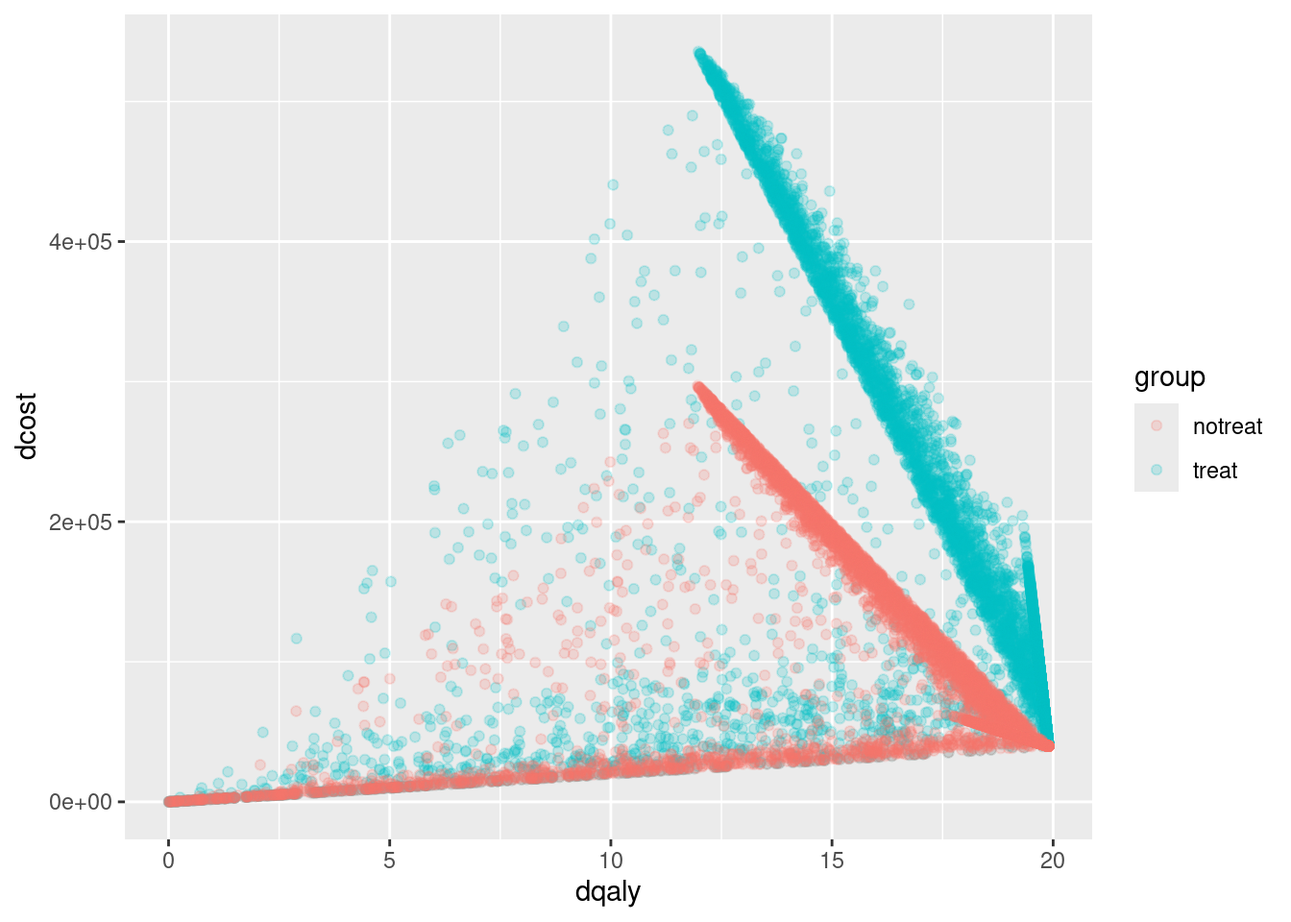
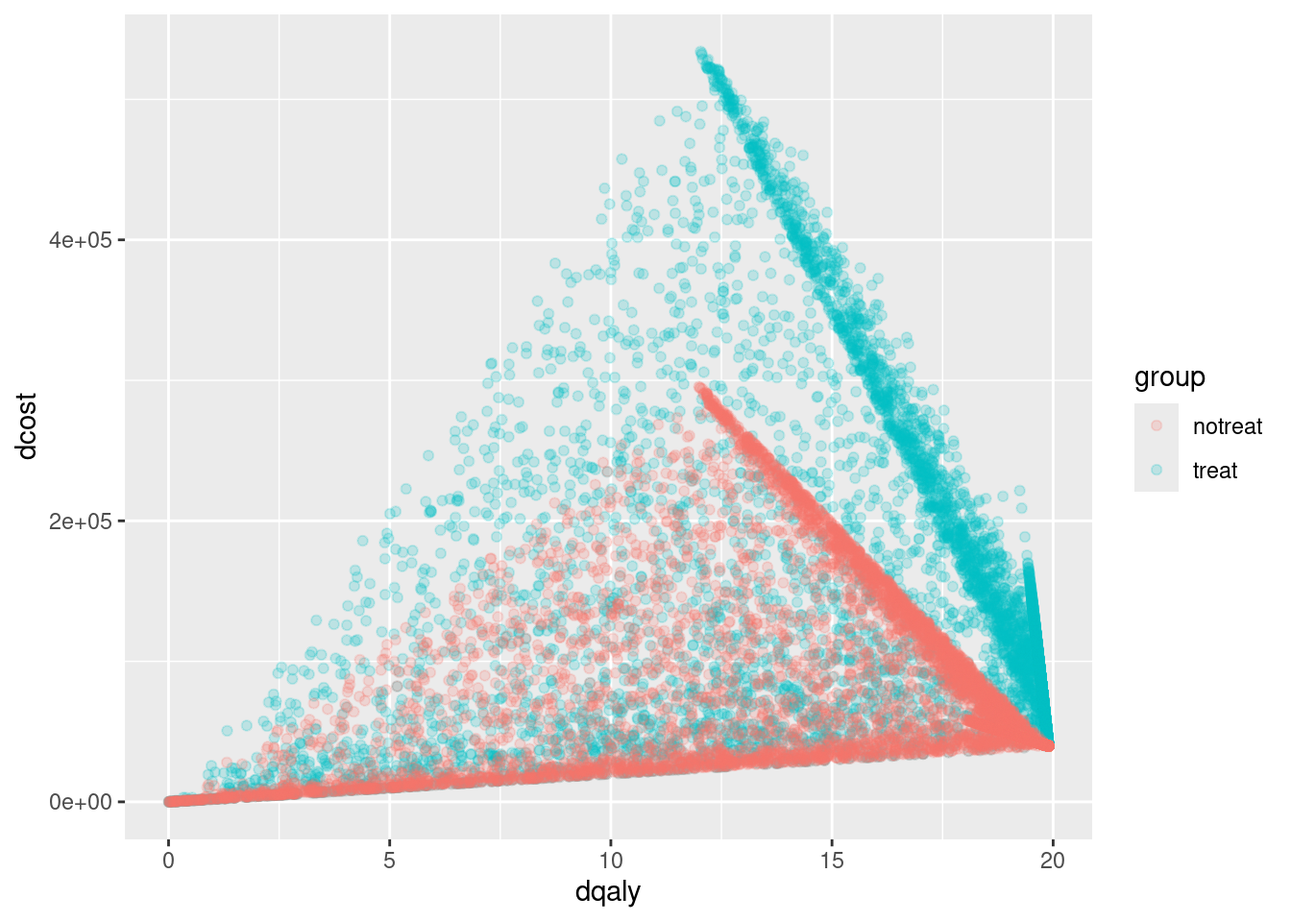
Fixed bug in death redraws

Changed region(s): [[0.125, 0.0312, 0.8125, 0.875], [0.0312, 0.5625, 0.0938, 0.5938], [0.0312, 0.25, 0.0938, 0.2812]]

diff --git a/Sick_Sicker_Simmer_DES.html b/Sick_Sicker_Simmer_DES.html
@@ -565,66 +565,68 @@ qaly_arrivals &lt;- function(arrivals, inputs)
 }</code></pre>
 <p>Now a run is in order.</p>
 <div class="cell">
-<div class="sourceCode cell-code" id="cb36"><pre class="sourceCode r code-with-copy"><code class="sourceCode r"><span id="cb36-1"><a href="#cb36-1" aria-hidden="true" tabindex="-1"></a><span class="fu">set.seed</span>(<span class="dv">2</span>)</span>
+<div class="sourceCode cell-code" id="cb36"><pre class="sourceCode r code-with-copy"><code class="sourceCode r"><span id="cb36-1"><a href="#cb36-1" aria-hidden="true" tabindex="-1"></a><span class="fu">set.seed</span>(<span class="dv">3</span>)</span>
 <span id="cb36-2"><a href="#cb36-2" aria-hidden="true" tabindex="-1"></a><span class="fu">source</span>(<span class="st">'model-4.R'</span>)</span>
 <span id="cb36-3"><a href="#cb36-3" aria-hidden="true" tabindex="-1"></a>results <span class="ot">&lt;-</span> <span class="fu">des_run</span>(inputs)</span>
 <span id="cb36-4"><a href="#cb36-4" aria-hidden="true" tabindex="-1"></a>results</span></code><button title="Copy to Clipboard" class="code-copy-button"><i class="bi"></i></button></pre></div>
 <div class="cell-output cell-output-stdout">
-<pre><code>       name start_time   end_time activity_time      resource replication
-1  patient2  0.0000000  0.7023209     0.7023209       healthy           1
-2  patient0  0.0000000  0.9776845     0.9776845       healthy           1
-3  patient1  0.0000000  4.4459842     4.4459842       healthy           1
-4  patient4  0.0000000  4.9674597     4.9674597       healthy           1
-5  patient3  0.0000000 12.2190344    12.2190344       healthy           1
-6  patient1 17.9052361 17.9052361     0.0000000         death           1
-7  patient1  0.0000000 17.9052361    17.9052361 time_in_model           1
-8  patient1  4.4459842 17.9052361    13.4592519         sick1           1
-9  patient2 19.9934967 19.9934967     0.0000000         death           1
-10 patient2  0.0000000 19.9934967    19.9934967 time_in_model           1
-11 patient2  0.7023209 19.9934967    19.2911758         sick1           1
-12 patient0  0.0000000 30.0000000    30.0000000 time_in_model           1
-13 patient4  0.0000000 30.0000000    30.0000000 time_in_model           1
-14 patient3  0.0000000 30.0000000    30.0000000 time_in_model           1
-15 patient0  0.9776845 30.0000000    29.0223155         sick1           1
-16 patient4  4.9674597 30.0000000    25.0325403         sick1           1
-17 patient3 12.2190344 30.0000000    17.7809656         sick1           1
-         cost     dcost       qaly      dqaly
-1    1404.642  1390.162  0.7023209  0.6950811
-2    1955.369  1927.385  0.9776845  0.9636924
-3    8891.968  8332.462  4.4459842  4.1662310
-4    9934.919  9239.963  4.9674597  4.6199813
-5   24438.069 20511.417 12.2190344 10.2557086
-6       0.000     0.000  0.0000000  0.0000000
-7       0.000     0.000  0.0000000  0.0000000
-8   53837.008 38947.307 10.7674015  7.7894613
-9       0.000     0.000  0.0000000  0.0000000
-10      0.000     0.000  0.0000000  0.0000000
-11  77164.703 57603.422 15.4329406 11.5206844
-12      0.000     0.000  0.0000000  0.0000000
-13      0.000     0.000  0.0000000  0.0000000
-14      0.000     0.000  0.0000000  0.0000000
-15 116089.262 75717.229 23.2178524 15.1434457
-16 100130.161 61092.073 20.0260322 12.2184146
-17  71123.862 38549.164 14.2247724  7.7098328</code></pre>
+<pre><code>       name  start_time    end_time activity_time      resource replication
+1  patient3  0.00000000  0.06698552    0.06698552       healthy           1
+2  patient4  0.00000000  0.51500444    0.51500444       healthy           1
+3  patient2  0.00000000  1.03479892    1.03479892       healthy           1
+4  patient1  0.00000000  1.39192072    1.39192072       healthy           1
+5  patient0  0.00000000  8.21944391    8.21944391       healthy           1
+6  patient4 11.06017048 11.06017048    0.00000000         death           1
+7  patient4  0.00000000 11.06017048   11.06017048 time_in_model           1
+8  patient4  0.51500444 11.06017048   10.54516604         sick1           1
+9  patient0 21.51698600 21.51698600    0.00000000         death           1
+10 patient0  0.00000000 21.51698600   21.51698600 time_in_model           1
+11 patient0  8.21944391 21.51698600   13.29754209         sick1           1
+12 patient3 27.22543337 27.22543337    0.00000000         death           1
+13 patient3  0.00000000 27.22543337   27.22543337 time_in_model           1
+14 patient3  0.06698552 27.22543337   27.15844785         sick1           1
+15 patient2  0.00000000 30.00000000   30.00000000 time_in_model           1
+16 patient1  0.00000000 30.00000000   30.00000000 time_in_model           1
+17 patient2  1.03479892 30.00000000   28.96520108         sick1           1
+18 patient1  1.39192072 30.00000000   28.60807928         sick1           1
+         cost      dcost        qaly       dqaly
+1     133.971   133.8385  0.06698552  0.06691925
+2    1030.009  1022.2086  0.51500444  0.51110432
+3    2069.598  2038.2663  1.03479892  1.01913314
+4    2783.841  2727.3503  1.39192072  1.36367517
+5   16438.888 14594.2785  8.21944391  7.29713927
+6       0.000     0.0000  0.00000000  0.00000000
+7       0.000     0.0000  0.00000000  0.00000000
+8   42180.664 35692.2209  8.43613283  7.13844418
+9       0.000     0.0000  0.00000000  0.00000000
+10      0.000     0.0000  0.00000000  0.00000000
+11  53190.168 34495.0557 10.63803367  6.89901115
+12      0.000     0.0000  0.00000000  0.00000000
+13      0.000     0.0000  0.00000000  0.00000000
+14 108633.791 74539.2546 21.72675828 14.90785093
+15      0.000     0.0000  0.00000000  0.00000000
+16      0.000     0.0000  0.00000000  0.00000000
+17 115860.804 75495.4658 23.17216086 15.09909315
+18 114432.317 74117.2976 22.88646342 14.82345953</code></pre>
 </div>
 </div>
 <p>The results are lot more complicated and harder to interpret. To bring some order to what’s happening what we can do is now randomly audit patients.</p>
 <div class="cell">
-<div class="sourceCode cell-code" id="cb38"><pre class="sourceCode r code-with-copy"><code class="sourceCode r"><span id="cb38-1"><a href="#cb38-1" aria-hidden="true" tabindex="-1"></a><span class="fu">set.seed</span>(<span class="dv">4</span>)</span>
+<div class="sourceCode cell-code" id="cb38"><pre class="sourceCode r code-with-copy"><code class="sourceCode r"><span id="cb38-1"><a href="#cb38-1" aria-hidden="true" tabindex="-1"></a><span class="fu">set.seed</span>(<span class="dv">6</span>)</span>
 <span id="cb38-2"><a href="#cb38-2" aria-hidden="true" tabindex="-1"></a>pn <span class="ot">&lt;-</span> <span class="fu">sample</span>(<span class="dv">1</span><span class="sc">:</span>inputs<span class="sc">$</span>N, <span class="dv">1</span>) <span class="sc">-</span> <span class="dv">1</span> <span class="co"># Starts a zero</span></span>
 <span id="cb38-3"><a href="#cb38-3" aria-hidden="true" tabindex="-1"></a>audit <span class="ot">&lt;-</span> results[results<span class="sc">$</span>name <span class="sc">==</span> <span class="fu">paste0</span>(<span class="st">'patient'</span>,pn),]</span>
 <span id="cb38-4"><a href="#cb38-4" aria-hidden="true" tabindex="-1"></a>audit[<span class="fu">order</span>(audit<span class="sc">$</span>start_time, audit<span class="sc">$</span>end_time),] <span class="co"># For clarity</span></span></code><button title="Copy to Clipboard" class="code-copy-button"><i class="bi"></i></button></pre></div>
 <div class="cell-output cell-output-stdout">
-<pre><code>       name start_time   end_time activity_time      resource replication
-1  patient2  0.0000000  0.7023209     0.7023209       healthy           1
-10 patient2  0.0000000 19.9934967    19.9934967 time_in_model           1
-11 patient2  0.7023209 19.9934967    19.2911758         sick1           1
-9  patient2 19.9934967 19.9934967     0.0000000         death           1
-        cost     dcost       qaly      dqaly
-1   1404.642  1390.162  0.7023209  0.6950811
-10     0.000     0.000  0.0000000  0.0000000
-11 77164.703 57603.422 15.4329406 11.5206844
-9      0.000     0.000  0.0000000  0.0000000</code></pre>
+<pre><code>      name start_time   end_time activity_time      resource replication
+2 patient4  0.0000000  0.5150044     0.5150044       healthy           1
+7 patient4  0.0000000 11.0601705    11.0601705 time_in_model           1
+8 patient4  0.5150044 11.0601705    10.5451660         sick1           1
+6 patient4 11.0601705 11.0601705     0.0000000         death           1
+       cost     dcost      qaly     dqaly
+2  1030.009  1022.209 0.5150044 0.5111043
+7     0.000     0.000 0.0000000 0.0000000
+8 42180.664 35692.221 8.4361328 7.1384442
+6     0.000     0.000 0.0000000 0.0000000</code></pre>
 </div>
 </div>
 <p>The random audit (the set.seed is just so we can reproduce the result and discuss here, remove it to be truly random), shows that Patient trajectory 2 in this simulation is health for 3/4 of the year. His time in the model is cut short to just under 20 years. He spends most of that time in the S1 state until his death.</p>
@@ -633,16 +635,16 @@ qaly_arrivals &lt;- function(arrivals, inputs)
 <div class="sourceCode cell-code" id="cb40"><pre class="sourceCode r code-with-copy"><code class="sourceCode r"><span id="cb40-1"><a href="#cb40-1" aria-hidden="true" tabindex="-1"></a>pn <span class="ot">&lt;-</span> <span class="fu">sample</span>(results[results<span class="sc">$</span>resource<span class="sc">==</span><span class="st">'death'</span>,<span class="st">'name'</span>],<span class="dv">1</span>)</span>
 <span id="cb40-2"><a href="#cb40-2" aria-hidden="true" tabindex="-1"></a>results[results<span class="sc">$</span>name <span class="sc">==</span> pn, ]</span></code><button title="Copy to Clipboard" class="code-copy-button"><i class="bi"></i></button></pre></div>
 <div class="cell-output cell-output-stdout">
-<pre><code>      name start_time  end_time activity_time      resource replication
-3 patient1   0.000000  4.445984      4.445984       healthy           1
-6 patient1  17.905236 17.905236      0.000000         death           1
-7 patient1   0.000000 17.905236     17.905236 time_in_model           1
-8 patient1   4.445984 17.905236     13.459252         sick1           1
-       cost     dcost      qaly    dqaly
-3  8891.968  8332.462  4.445984 4.166231
-6     0.000     0.000  0.000000 0.000000
-7     0.000     0.000  0.000000 0.000000
-8 53837.008 38947.307 10.767402 7.789461</code></pre>
+<pre><code>       name start_time  end_time activity_time      resource replication
+5  patient0   0.000000  8.219444      8.219444       healthy           1
+9  patient0  21.516986 21.516986      0.000000         death           1
+10 patient0   0.000000 21.516986     21.516986 time_in_model           1
+11 patient0   8.219444 21.516986     13.297542         sick1           1
+       cost    dcost      qaly    dqaly
+5  16438.89 14594.28  8.219444 7.297139
+9      0.00     0.00  0.000000 0.000000
+10     0.00     0.00  0.000000 0.000000
+11 53190.17 34495.06 10.638034 6.899011</code></pre>
 </div>
 </div>
 <p>Thus tools to grab and look at trajectories containing specific events randomly auditing and verifying the expected costs and qualitys can be done.</p>
@@ -686,23 +688,27 @@ healthy &lt;- function(traj, inputs)
 <span id="cb44-5"><a href="#cb44-5" aria-hidden="true" tabindex="-1"></a>audit[<span class="fu">order</span>(audit<span class="sc">$</span>start_time, audit<span class="sc">$</span>end_time),]</span></code><button title="Copy to Clipboard" class="code-copy-button"><i class="bi"></i></button></pre></div>
 <div class="cell-output cell-output-stdout">
 <pre><code>       name start_time  end_time activity_time      resource replication
-7  patient1   0.000000  4.899055     4.8990551       healthy           1
-34 patient1   0.000000 30.000000    30.0000000 time_in_model           1
-8  patient1   4.899055  5.247788     0.3487328         sick1           1
-20 patient1   5.247788 13.559917     8.3121288       healthy           1
-23 patient1  13.559917 15.528413     1.9684958         sick1           1
-26 patient1  15.528413 18.120708     2.5922960       healthy           1
-27 patient1  18.120708 18.488023     0.3673147         sick1           1
-38 patient1  18.488023 30.000000    11.5119768       healthy           1
-        cost      dcost       qaly     dqaly
-7   9798.110  9121.7168  4.8990551 4.5608584
-34     0.000     0.0000  0.0000000 0.0000000
-8   1394.931  1200.6767  0.2789863 0.2401353
-20 16624.258 12621.6089  8.3121288 6.3108045
-23  7873.983  5123.2911  1.5747966 1.0246582
-26  5184.592  3153.8437  2.5922960 1.5769218
-27  1469.259   855.3092  0.2938517 0.1710618
-38 23023.954 11299.1913 11.5119768 5.6495957</code></pre>
+9  patient1   0.000000  4.899055    4.89905511       healthy           1
+48 patient1   0.000000 30.000000   30.00000000 time_in_model           1
+13 patient1   4.899055  7.470293    2.57123764         sick1           1
+17 patient1   7.470293 11.542523    4.07223050       healthy           1
+18 patient1  11.542523 11.600571    0.05804809         sick1           1
+21 patient1  11.600571 12.498444    0.89787306       healthy           1
+24 patient1  12.498444 13.256838    0.75839345         sick1           1
+33 patient1  13.256838 20.532096    7.27525846       healthy           1
+36 patient1  20.532096 21.534997    1.00290072         sick1           1
+53 patient1  21.534997 30.000000    8.46500296       healthy           1
+         cost     dcost       qaly      dqaly
+9   9798.1102 9121.7168 4.89905511 4.56085838
+48     0.0000    0.0000 0.00000000 0.00000000
+13 10284.9506 8568.6555 2.05699011 1.71373110
+17  8144.4610 6153.0240 4.07223050 3.07651200
+18   232.1924  164.9307 0.04643847 0.03298614
+21  1795.7461 1257.6953 0.89787306 0.62884766
+24  3033.5738 2073.2443 0.60671476 0.41464887
+33 14550.5169 8847.8321 7.27525846 4.42391604
+36  4011.6029 2154.3758 0.80232057 0.43087517
+53 16930.0059 7925.1278 8.46500296 3.96256391</code></pre>
 </div>
 </div>
 <p>Now the patient bounces back and forth between healthy and sick. The costs and qalys stay the same. The model is nearly complete.</p>
@@ -780,24 +786,36 @@ sick2 &lt;- function(traj, inputs)
 <p>Let’s see if we can audit a trajectory with sick2.</p>
 <div class="cell">
 <div class="sourceCode cell-code" id="cb52"><pre class="sourceCode r code-with-copy"><code class="sourceCode r"><span id="cb52-1"><a href="#cb52-1" aria-hidden="true" tabindex="-1"></a><span class="fu">source</span>(<span class="st">'model-6.R'</span>)</span>
-<span id="cb52-2"><a href="#cb52-2" aria-hidden="true" tabindex="-1"></a><span class="fu">set.seed</span>(<span class="dv">3</span>)</span>
+<span id="cb52-2"><a href="#cb52-2" aria-hidden="true" tabindex="-1"></a><span class="fu">set.seed</span>(<span class="dv">2</span>)</span>
 <span id="cb52-3"><a href="#cb52-3" aria-hidden="true" tabindex="-1"></a>results <span class="ot">&lt;-</span> <span class="fu">des_run</span>(inputs)</span>
 <span id="cb52-4"><a href="#cb52-4" aria-hidden="true" tabindex="-1"></a>pn <span class="ot">&lt;-</span> results<span class="sc">$</span>name[results<span class="sc">$</span>resource <span class="sc">==</span> <span class="st">'sick2'</span>][<span class="dv">1</span>]</span>
 <span id="cb52-5"><a href="#cb52-5" aria-hidden="true" tabindex="-1"></a>audit <span class="ot">&lt;-</span> results[results<span class="sc">$</span>name <span class="sc">==</span> pn,]</span>
 <span id="cb52-6"><a href="#cb52-6" aria-hidden="true" tabindex="-1"></a>audit[<span class="fu">order</span>(audit<span class="sc">$</span>start_time, audit<span class="sc">$</span>end_time),]</span></code><button title="Copy to Clipboard" class="code-copy-button"><i class="bi"></i></button></pre></div>
 <div class="cell-output cell-output-stdout">
-<pre><code>       name start_time   end_time activity_time      resource replication
-2  patient4  0.0000000  0.5150044     0.5150044       healthy           1
-26 patient4  0.0000000 22.8997743    22.8997743 time_in_model           1
-13 patient4  0.5150044  6.3379526     5.8229482         sick1           1
-27 patient4  6.3379526 22.8997743    16.5618216         sick2           1
-25 patient4 22.8997743 22.8997743     0.0000000         death           1
-         cost      dcost      qaly     dqaly
-2    1030.009   1022.209 0.5150044 0.5111043
-26      0.000      0.000 0.0000000 0.0000000
-13  23291.793  21074.263 4.6583586 4.2148526
-27 248427.325 162877.777 9.9370930 6.5151111
-25      0.000      0.000 0.0000000 0.0000000</code></pre>
+<pre><code>       name start_time  end_time activity_time      resource replication
+5  patient1   0.000000  4.445984     4.4459842       healthy           1
+28 patient1   0.000000 20.090316    20.0903164 time_in_model           1
+11 patient1   4.445984  5.635455     1.1894707         sick1           1
+14 patient1   5.635455 11.866599     6.2311438       healthy           1
+16 patient1  11.866599 12.265300     0.3987010         sick1           1
+19 patient1  12.265300 13.761215     1.4959153       healthy           1
+22 patient1  13.761215 15.572232     1.8110174         sick1           1
+23 patient1  15.572232 16.563925     0.9916925       healthy           1
+24 patient1  16.563925 17.330233     0.7663082         sick1           1
+29 patient1  17.330233 20.090316     2.7600832         sick2           1
+27 patient1  20.090316 20.090316     0.0000000         death           1
+        cost     dcost      qaly     dqaly
+5   8891.968  8332.462 4.4459842 4.1662310
+28     0.000     0.000 0.0000000 0.0000000
+11  4757.883  4099.466 0.9515765 0.8198931
+14 12462.288  9635.463 6.2311438 4.8177314
+16  1594.804  1116.391 0.3189608 0.2232783
+19  2991.831  2036.659 1.4959153 1.0183294
+22  7244.070  4696.285 1.4488140 0.9392570
+23  1983.385  1233.539 0.9916925 0.6167697
+24  3065.233  1857.459 0.6130465 0.3714918
+29 41401.249 23820.226 1.6560499 0.9528090
+27     0.000     0.000 0.0000000 0.0000000</code></pre>
 </div>
 </div>
 <p>This shows that base case of the Sick/Sicker model is now fully handled.</p>
@@ -892,49 +910,79 @@ healthy &lt;- function(traj, inputs)
 <p>And we can run.</p>
 <div class="cell">
 <div class="sourceCode cell-code" id="cb58"><pre class="sourceCode r code-with-copy"><code class="sourceCode r"><span id="cb58-1"><a href="#cb58-1" aria-hidden="true" tabindex="-1"></a><span class="fu">source</span>(<span class="st">'model-7.R'</span>)</span>
-<span id="cb58-2"><a href="#cb58-2" aria-hidden="true" tabindex="-1"></a><span class="fu">set.seed</span>(<span class="dv">3</span>)</span>
+<span id="cb58-2"><a href="#cb58-2" aria-hidden="true" tabindex="-1"></a><span class="fu">set.seed</span>(<span class="dv">2</span>)</span>
 <span id="cb58-3"><a href="#cb58-3" aria-hidden="true" tabindex="-1"></a>results <span class="ot">&lt;-</span> <span class="fu">des_run</span>(inputs)</span>
 <span id="cb58-4"><a href="#cb58-4" aria-hidden="true" tabindex="-1"></a>pn <span class="ot">&lt;-</span> results<span class="sc">$</span>name[results<span class="sc">$</span>resource <span class="sc">==</span> <span class="st">'sick2'</span>][<span class="dv">1</span>]</span>
 <span id="cb58-5"><a href="#cb58-5" aria-hidden="true" tabindex="-1"></a>audit <span class="ot">&lt;-</span> results[results<span class="sc">$</span>name <span class="sc">==</span> pn,]</span>
 <span id="cb58-6"><a href="#cb58-6" aria-hidden="true" tabindex="-1"></a>audit[<span class="fu">order</span>(audit<span class="sc">$</span>start_time, audit<span class="sc">$</span>end_time),]</span></code><button title="Copy to Clipboard" class="code-copy-button"><i class="bi"></i></button></pre></div>
 <div class="cell-output cell-output-stdout">
-<pre><code>       name start_time   end_time activity_time      resource replication
-2  patient4  0.0000000  0.5150044     0.5150044       healthy           1
-26 patient4  0.0000000 22.8997743    22.8997743 time_in_model           1
-13 patient4  0.5150044  6.3379526     5.8229482         sick1           1
-27 patient4  6.3379526 22.8997743    16.5618216         sick2           1
-25 patient4 22.8997743 22.8997743     0.0000000         death           1
-         cost      dcost      qaly     dqaly
-2    1030.009   1022.209 0.5150044 0.5111043
-26      0.000      0.000 0.0000000 0.0000000
-13  23291.793  21074.263 4.6583586 4.2148526
-27 248427.325 162877.777 9.9370930 6.5151111
-25      0.000      0.000 0.0000000 0.0000000</code></pre>
+<pre><code>       name start_time  end_time activity_time      resource replication
+5  patient1   0.000000  4.445984     4.4459842       healthy           1
+28 patient1   0.000000 20.090316    20.0903164 time_in_model           1
+11 patient1   4.445984  5.635455     1.1894707         sick1           1
+14 patient1   5.635455 11.866599     6.2311438       healthy           1
+16 patient1  11.866599 12.265300     0.3987010         sick1           1
+19 patient1  12.265300 13.761215     1.4959153       healthy           1
+22 patient1  13.761215 15.572232     1.8110174         sick1           1
+23 patient1  15.572232 16.563925     0.9916925       healthy           1
+24 patient1  16.563925 17.330233     0.7663082         sick1           1
+29 patient1  17.330233 20.090316     2.7600832         sick2           1
+27 patient1  20.090316 20.090316     0.0000000         death           1
+        cost     dcost      qaly     dqaly
+5   8891.968  8332.462 4.4459842 4.1662310
+28     0.000     0.000 0.0000000 0.0000000
+11  4757.883  4099.466 0.9515765 0.8198931
+14 12462.288  9635.463 6.2311438 4.8177314
+16  1594.804  1116.391 0.3189608 0.2232783
+19  2991.831  2036.659 1.4959153 1.0183294
+22  7244.070  4696.285 1.4488140 0.9392570
+23  1983.385  1233.539 0.9916925 0.6167697
+24  3065.233  1857.459 0.6130465 0.3714918
+29 41401.249 23820.226 1.6560499 0.9528090
+27     0.000     0.000 0.0000000 0.0000000</code></pre>
 </div>
 </div>
 <p>Now with treatment.</p>
 <div class="cell">
-<div class="sourceCode cell-code" id="cb60"><pre class="sourceCode r code-with-copy"><code class="sourceCode r"><span id="cb60-1"><a href="#cb60-1" aria-hidden="true" tabindex="-1"></a><span class="fu">set.seed</span>(<span class="dv">3</span>)</span>
+<div class="sourceCode cell-code" id="cb60"><pre class="sourceCode r code-with-copy"><code class="sourceCode r"><span id="cb60-1"><a href="#cb60-1" aria-hidden="true" tabindex="-1"></a><span class="fu">set.seed</span>(<span class="dv">2</span>)</span>
 <span id="cb60-2"><a href="#cb60-2" aria-hidden="true" tabindex="-1"></a>inputs<span class="sc">$</span>strategy <span class="ot">&lt;-</span> <span class="st">'treat'</span></span>
 <span id="cb60-3"><a href="#cb60-3" aria-hidden="true" tabindex="-1"></a>results <span class="ot">&lt;-</span> <span class="fu">des_run</span>(inputs)</span>
 <span id="cb60-4"><a href="#cb60-4" aria-hidden="true" tabindex="-1"></a>pn <span class="ot">&lt;-</span> results<span class="sc">$</span>name[results<span class="sc">$</span>resource <span class="sc">==</span> <span class="st">'sick2'</span>][<span class="dv">1</span>]</span>
 <span id="cb60-5"><a href="#cb60-5" aria-hidden="true" tabindex="-1"></a>audit <span class="ot">&lt;-</span> results[results<span class="sc">$</span>name <span class="sc">==</span> pn,]</span>
 <span id="cb60-6"><a href="#cb60-6" aria-hidden="true" tabindex="-1"></a>audit[<span class="fu">order</span>(audit<span class="sc">$</span>start_time, audit<span class="sc">$</span>end_time),]</span></code><button title="Copy to Clipboard" class="code-copy-button"><i class="bi"></i></button></pre></div>
 <div class="cell-output cell-output-stdout">
-<pre><code>       name start_time   end_time activity_time      resource replication
-2  patient4  0.0000000  0.5150044     0.5150044       healthy           1
-34 patient4  0.0000000 22.8997743    22.8997743 time_in_model           1
-17 patient4  0.5150044  6.3379526     5.8229482         sick1           1
-36 patient4  0.5150044 22.8997743    22.3847698         treat           1
-35 patient4  6.3379526 22.8997743    16.5618216         sick2           1
-33 patient4 22.8997743 22.8997743     0.0000000         death           1
-         cost      dcost      qaly     dqaly
-2    1030.009   1022.209 0.5150044 0.5111043
-34      0.000      0.000 0.0000000 0.0000000
-17  23291.793  21074.263 5.5318008 5.0051374
-36 268617.238 193525.011 0.0000000 0.0000000
-35 248427.325 162877.777 9.9370930 6.5151111
-33      0.000      0.000 0.0000000 0.0000000</code></pre>
+<pre><code>       name start_time  end_time activity_time      resource replication
+7  patient1   0.000000  4.445984     4.4459842       healthy           1
+38 patient1   0.000000 20.090316    20.0903164 time_in_model           1
+15 patient1   4.445984  5.635455     1.1894707         sick1           1
+16 patient1   4.445984  5.635455     1.1894707         treat           1
+19 patient1   5.635455 11.866599     6.2311438       healthy           1
+21 patient1  11.866599 12.265300     0.3987010         sick1           1
+22 patient1  11.866599 12.265300     0.3987010         treat           1
+26 patient1  12.265300 13.761215     1.4959153       healthy           1
+30 patient1  13.761215 15.572232     1.8110174         sick1           1
+31 patient1  13.761215 15.572232     1.8110174         treat           1
+32 patient1  15.572232 16.563925     0.9916925       healthy           1
+33 patient1  16.563925 17.330233     0.7663082         sick1           1
+40 patient1  16.563925 20.090316     3.5263914         treat           1
+39 patient1  17.330233 20.090316     2.7600832         sick2           1
+37 patient1  20.090316 20.090316     0.0000000         death           1
+        cost     dcost      qaly     dqaly
+7   8891.968  8332.462 4.4459842 4.1662310
+38     0.000     0.000 0.0000000 0.0000000
+15  4757.883  4099.466 1.1299971 0.9736231
+16 14273.648 12298.397 0.0000000 0.0000000
+19 12462.288  9635.463 6.2311438 4.8177314
+21  1594.804  1116.391 0.3787659 0.2651430
+22  4784.412  3349.174 0.0000000 0.0000000
+26  2991.831  2036.659 1.4959153 1.0183294
+30  7244.070  4696.285 1.7204666 1.1153677
+31 21732.209 14088.855 0.0000000 0.0000000
+32  1983.385  1233.539 0.9916925 0.6167697
+33  3065.233  1857.459 0.7279928 0.4411465
+40 42316.697 24628.558 0.0000000 0.0000000
+39 41401.249 23820.226 1.6560499 0.9528090
+37     0.000     0.000 0.0000000 0.0000000</code></pre>
 </div>
 </div>
 <p>Notice patient4 now has higher QALY under treatment, but also has treatment costs.</p>
@@ -996,8 +1044,8 @@ Attaching package: 'dplyr'</code></pre>
 <span id="cb67-21"><a href="#cb67-21" aria-hidden="true" tabindex="-1"></a>cea</span></code><button title="Copy to Clipboard" class="code-copy-button"><i class="bi"></i></button></pre></div>
 <div class="cell-output cell-output-stdout">
 <pre><code>            cost     dcost     qaly    dqaly
-notreat 129365.3  80099.57 25.15816 17.06324
-treat   232484.6 143450.91 25.67840 17.41693</code></pre>
+notreat 104647.9  67071.89 23.69394 16.26638
+treat   187331.4 119542.72 24.19165 16.60588</code></pre>
 </div>
 </div>
 <div class="cell">
@@ -1005,19 +1053,19 @@ treat   232484.6 143450.91 25.67840 17.41693</code></pre>
 <span id="cb69-2"><a href="#cb69-2" aria-hidden="true" tabindex="-1"></a><span class="fu">diff</span>(cea[,<span class="st">'dqaly'</span>]) <span class="sc">-</span> <span class="fu">diff</span>(cea[,<span class="st">'dcost'</span>])<span class="sc">/</span>inputs<span class="sc">$</span>wtp</span></code><button title="Copy to Clipboard" class="code-copy-button"><i class="bi"></i></button></pre></div>
 <div class="cell-output cell-output-stdout">
 <pre><code>     treat 
--0.2798167 </code></pre>
+-0.1852043 </code></pre>
 </div>
 <div class="sourceCode cell-code" id="cb71"><pre class="sourceCode r code-with-copy"><code class="sourceCode r"><span id="cb71-1"><a href="#cb71-1" aria-hidden="true" tabindex="-1"></a><span class="co"># NMB (discounted)</span></span>
 <span id="cb71-2"><a href="#cb71-2" aria-hidden="true" tabindex="-1"></a><span class="fu">diff</span>(cea[,<span class="st">'dqaly'</span>])<span class="sc">*</span>inputs<span class="sc">$</span>wtp <span class="sc">-</span> <span class="fu">diff</span>(cea[,<span class="st">'dcost'</span>])</span></code><button title="Copy to Clipboard" class="code-copy-button"><i class="bi"></i></button></pre></div>
 <div class="cell-output cell-output-stdout">
 <pre><code>    treat 
--27981.67 </code></pre>
+-18520.43 </code></pre>
 </div>
 <div class="sourceCode cell-code" id="cb73"><pre class="sourceCode r code-with-copy"><code class="sourceCode r"><span id="cb73-1"><a href="#cb73-1" aria-hidden="true" tabindex="-1"></a><span class="co"># ICER</span></span>
 <span id="cb73-2"><a href="#cb73-2" aria-hidden="true" tabindex="-1"></a><span class="fu">diff</span>(cea[,<span class="st">'dcost'</span>])<span class="sc">/</span> <span class="fu">diff</span>(cea[,<span class="st">'dqaly'</span>])</span></code><button title="Copy to Clipboard" class="code-copy-button"><i class="bi"></i></button></pre></div>
 <div class="cell-output cell-output-stdout">
 <pre><code>   treat 
-179112.1 </code></pre>
+154551.4 </code></pre>
 </div>
 </div>
 </section>
@@ -1038,7 +1086,7 @@ treat   232484.6 143450.91 25.67840 17.41693</code></pre>
 </div>
 </div>
 <p>This plot is odd due to the utilization of simple non realistic exponential rates.</p>
-<p>The capability of DES to include constrained resources was not included in this tutorial and would need a separate exploration. The fact that <code>simmer</code> has this capability means that it cannot treat patients as independent in evaluating events. This incurs a computational cost of <span class="math inline">\(\mathcal{O}(n \log n)\)</span>. There is a frameworks written by <a href="https://med.stanford.edu/profiles/fernando-alarid-escudero">Fernando Alarid-Escudero</a> utilizing <code>data.table</code> in R that removes the ability to model constrained resources and reduces the computational cost to <span class="math inline">\(\mathcal{O}(n)\)</span> for this type of modeling. The lessons in this tutorial still apply, but the memory layout of events is in a wide <code>data.table</code>.</p>
+<p>The capability of DES to include constrained resources was not included in this tutorial and would need a separate exploration. The fact that <code>simmer</code> has this capability means that it cannot treat patients as independent in evaluating events. Thus a key feature of <code>simmer</code> is not utilized in independent patient simulations. This feature incurs a computational cost of <span class="math inline">\(\mathcal{O}(n \log n)\)</span>. There is a frameworks written by <a href="https://med.stanford.edu/profiles/fernando-alarid-escudero">Fernando Alarid-Escudero</a> utilizing <code>data.table</code> in R that removes the ability to model constrained resources and reduces the computational cost to <span class="math inline">\(\mathcal{O}(n)\)</span> for this type of modeling. The lessons in this tutorial still apply, but the memory layout of events is in a wide <code>data.table</code>.</p>
 <p>To get convergence for studying conditions that are rare events, we have found that we need over 1,000,000 patient trajectories to get convergence of estimators within acceptible statistical bounds. The R <code>simmer</code> framework functions with reasonable speed at no more that 10,000 patient trajectories and possibly less for complex models. We utilize <a href="https://github.com/vubiostat/accre_tutorial">ACCRE</a> to batch the jobs and get sufficient coverage. This is a major issue for performing a probability sensitivity analysis on a model as now a 1000 runs typically need of a 1,000,000 patient trajectories requiring 100,000 job runs! Planning for time to do this is required at project outset.</p>
 <p>Shawn Garbett <shawn dot="" garbett="" at="" vumc="" org=""></shawn></p>
 </section>
